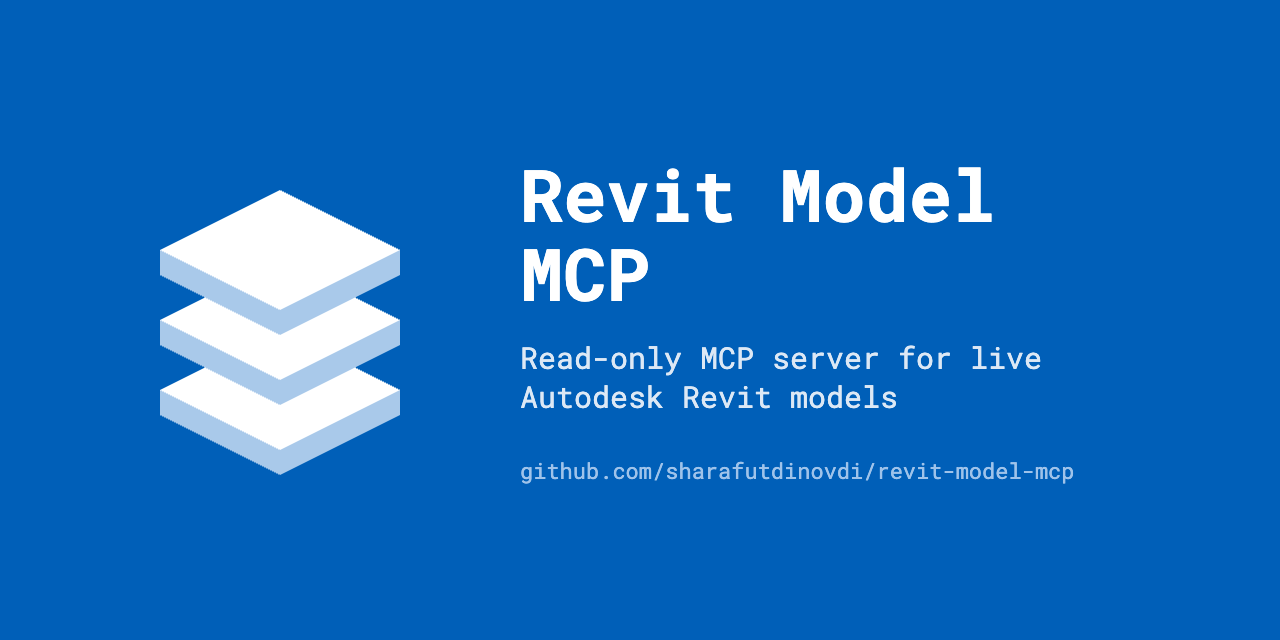
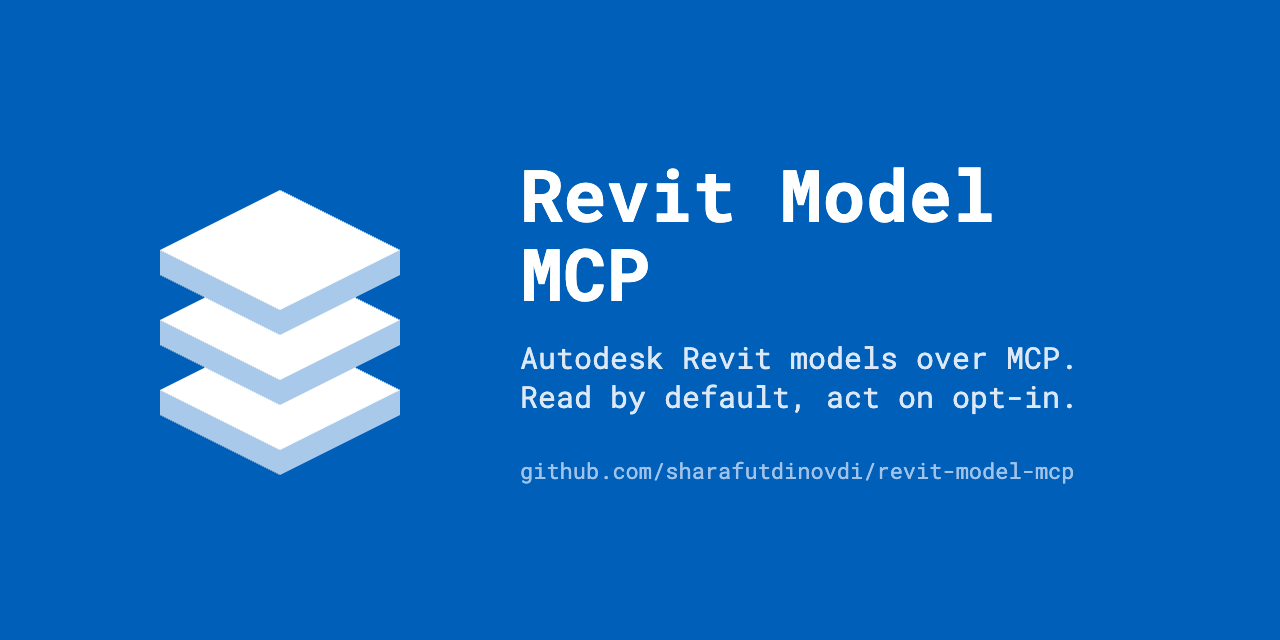
docs(brand): say read-by-default on the social card, not read-only
The server acts in the model when both gates are on, so "read-only" was
overclaiming. Same wording as README and pyproject.

Claude-Session: https://claude.ai/code/session_01ErqVQWxjssvrT1emUQpuHv

Changed region(s): [[0.4062, 0.5312, 0.8438, 0.6562]]

diff --git a/docs/assets/social-card.html b/docs/assets/social-card.html
@@ -74,7 +74,7 @@
     </svg>
     <div class="text">
       <h1>Revit Model MCP</h1>
-      <p class="subtitle">Read-only MCP server for live Autodesk Revit models</p>
+      <p class="subtitle">Autodesk Revit models over MCP.<br>Read by default, act on opt-in.</p>
       <p class="footer">github.com/sharafutdinovdi/revit-model-mcp</p>
     </div>
   </div>
